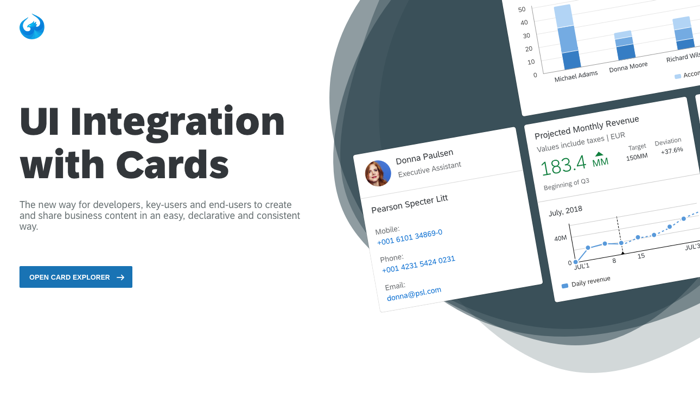
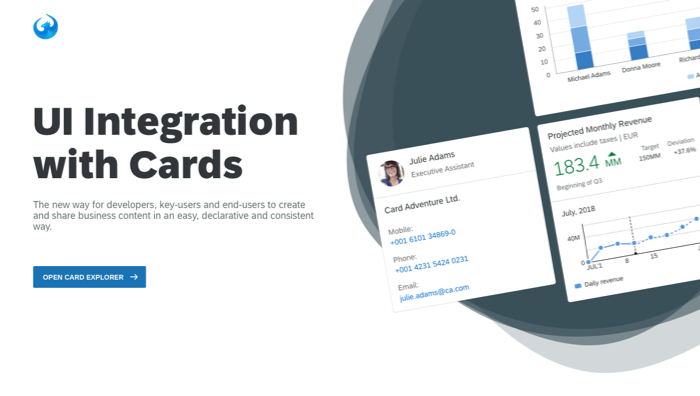
[INTERNAL] sap.ui.integration.CardExplorer: Landing page adjusted
Landing page example adapted to use "ui-integration-card" element
and indentation of the code snippet is fixed.

Reasons for downport: This change fixes regression in the landing page
of the CardExplorer. It cannot affect any application, besides it.
The fix also prevents potential legal problem, because some images and
names were used as examples, which are not SAP branded and can bring
copyright issues.

JIRA: BGSOFUIRODOPI-2130
BCP: n/a
CR-Id: 002075125900004899992019

diff --git a/src/sap.ui.integration/test/sap/ui/integration/demokit/cardExplorer/index.html b/src/sap.ui.integration/test/sap/ui/integration/demokit/cardExplorer/index.html
@@ -85,64 +85,67 @@
 								</div>
 							</div>
 							<div>
-<pre src="./manifests/listcard.manifest.json" class="prettyprint small">{
+<!-- Code snippet indentation should be with spaces -->
+<pre src="./manifests/listcard.manifest.json" class="prettyprint small fontWeightSmall">
+{
   "sap.card": {
-	"type": "Object",
-	"header": {
-	  "icon": {
-		"src": "../cardExplorer/images/Sabine_Mayer.png"
-	  },
-	  "title": "Donna Paulsen",
-	  "subTitle": "Executive Assistant"
-	},
-	"content": {
-	  "groups": [
-		{
-		  "title": "Pearson Specter",
-		  "items": [
-			{
-			  "label": "Mobile",
-			  "value": "+001 6101 34869-0",
-			  "type": "phone"
-			},
-			{
-			  "label": "Phone",
-			  "value": "+001 4231 5424 0231",
-			  "type": "phone"
-			},
-			{
-			  "label": "Email",
-			  "value": "donna@psl.com",
-			  "type": "email"
-			}
-		  ]
-		},
-		{
-		  "title": "Legal Services Unit",
-		  "items": [
-			 {
-			  "label": "Direct Manager",
-			  "value": "Harvey Specter",
-			  "icon": {
-				"src": "../cardExplorer/images/Laurent_Dubois.png"
-				}
-			 },
-			 {
-			  "label": "Phone",
-			  "value": "+001 4242 4242 0873",
-			  "type": "phone"
-			 },
-			 {
-			  "label": "Email",
-			  "value": "thebeststcloser@psl.com",
-			  "type": "email"
-			 }
-		  ]
-		}
-	  ]
-	}
+    "type": "Object",
+    "header": {
+      "icon": {
+        "src": "../images/Sabine_Mayer.png"
+      },
+      "title": "Sabine Mayer",
+      "subTitle": "Executive Assistant"
+    },
+    "content": {
+      "groups": [
+        {
+          "title": "Contact Details",
+          "items": [
+            {
+              "label": "Mobile",
+              "value": "+001 6101 34869-0",
+              "type": "phone"
+            },
+            {
+              "label": "Phone",
+              "value": "+001 4231 5424 0231",
+              "type": "phone"
+            },
+            {
+              "label": "Email",
+              "value": "sabine@cardadventure.com",
+              "type": "email"
+            }
+          ]
+        },
+        {
+          "title": "Company Details",
+          "items": [
+            {
+              "label": "Direct Manager",
+              "value": "Michael Adams",
+              "icon": {
+                "src": "../images/Michael_Adams.png"
+              }
+            },
+            {
+              "label": "Phone",
+              "value": "+001 4242 4242 0873",
+              "type": "phone"
+            },
+            {
+              "label": "Email",
+              "value": "madams@cardadventure.com",
+              "type": "email"
+            }
+          ]
+        }
+      ]
+    }
   }
-}</pre>
+}
+</pre>
 							</div>
 						</div>
 						<div>
@@ -150,17 +153,28 @@
 								<div class="step second">2</div>
 								<h3>Consume the card in your site</h3>
 								<div class="description small">
-									Insert a script tag referring the sap-ui-integration.js bundle
-									to your site. This will enable your page for card usage.<br>
-									Add a &lt;ui-card&gt; tag where the card should appear.<br><br>
+									To enable any html page to consume cards, just use <br>
+									&lt;ui-integration-card&gt; tag which will be served from the provided minimalistic sap-ui-integration.js bundle.
 								</div>
 							</div>
-							<div>
-<pre class="prettyprint small">&lt;mvc:View xmlns:w="sap.ui.integration.widgets"&gt;
-
-  &lt;w:Card manifest="../manifest.json"/&gt;
-
-&lt;/mvc:View&gt;</pre>
+						<div>
+<!-- Code snippet indentation should be with spaces -->
+<pre class="prettyprint small fontWeightSmall">
+&lt;html&gt;
+  &lt;head&gt;
+    &lt;script
+      id="sap-ui-bootstrap"
+      src="https://ui5.sap.com/resources/sap-ui-integration.js"&gt;
+    &lt;/script&gt;
+  &lt;/head&gt;
+  &lt;body&gt;
+    ...
+    &lt;ui-integration-card
+       manifest="../manifest.json"&gt;
+    &lt;/ui-integration-card&gt;
+  &lt;/body&gt;
+&lt;/html&gt;
+</pre>
 							</div>
 						</div>
 					</div>
@@ -179,7 +193,7 @@
 						<img src="images/blob-03.svg" class="blob-small">
 					</div>
 					<div class="rendered-card">
-						<ui-card style="text-align: left;" manifest="./manifests/objectcard.manifest.json"></ui-card>
+						<ui-integration-card style="text-align: left;" manifest="./manifests/objectcard.manifest.json"></ui-integration-card>
 					</div>
 				</div>
 			</div>
@@ -222,7 +236,7 @@
 			<div class="wrapper compatibility-flex-wrapper flex-wrap space-around-responsive light">
 				<div class="compatibility-wrapper">
 					<span class="compatibility-header">Framework Compatibility</span>
-					<p>UI Integration Cards are framework-agnostic and can run with arbitary HTML framework or page</p>
+					<p>UI Integration Cards are framework-agnostic and can run with arbitrary HTML framework or page</p>
 					<div class="image-wrapper">
 						<img class="icon-small" src="./images/icons/icon-html5.svg" alt="Vue Logo">
 						<img class="icon-small" src="./images/icons/icon-ui5.svg" alt="UI5 Logo">

diff --git a/src/sap.ui.integration/test/sap/ui/integration/demokit/cardExplorer/css/index.css b/src/sap.ui.integration/test/sap/ui/integration/demokit/cardExplorer/css/index.css
@@ -236,7 +236,7 @@ b {
 	background: #eff2f6;
 }
 
-.example-section ui-card {
+.example-section ui-integration-card {
 	width: 448px;
 	display: inline-block;
 }
@@ -627,6 +627,10 @@ b {
 	line-height: 1.1;
 }
 
+.prettyprint.small.fontWeightSmall {
+	font-size: 14px;
+}
+
 .prettyprint.small::-webkit-scrollbar {
 	background-color: transparent;
 	width: 8px;
@@ -731,7 +735,7 @@ b {
 		margin-right: 0;
 	}
 
-	.cards > ui-card {
+	.cards > ui-integration-card {
 		width: auto;
 	}
 
@@ -784,7 +788,7 @@ b {
 		padding-top: 0;
 	}
 
-	.example-section ui-card {
+	.example-section ui-integration-card {
 		width: 320px;
 	}
 

diff --git a/src/sap.ui.integration/src/sap/ui/integration/util/CustomElementBase.js b/src/sap.ui.integration/src/sap/ui/integration/util/CustomElementBase.js
@@ -115,7 +115,7 @@ sap.ui.define([
 
 		// holder for UIArea
 		if (!this.firstElementChild) {
-			var oUiArea = document.createElement("span");
+			var oUiArea = document.createElement("div");
 			oUiArea.style.display = "block"; // display: contents looks like the best choice, but it is not supported on all browsers
 			this.appendChild(oUiArea);
 		}
